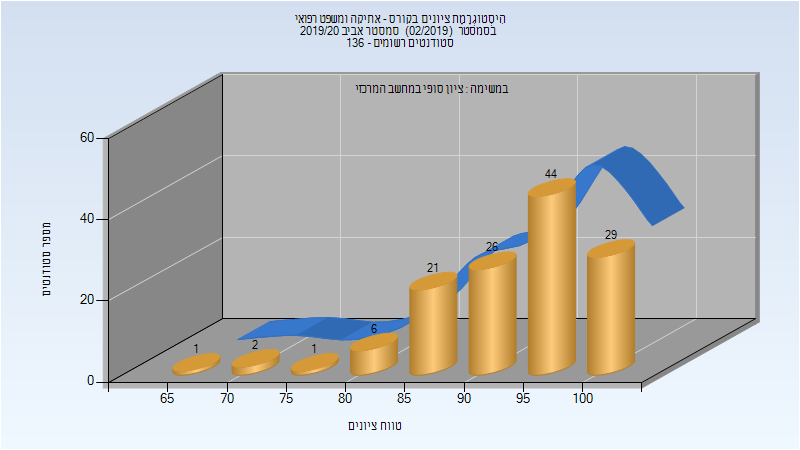
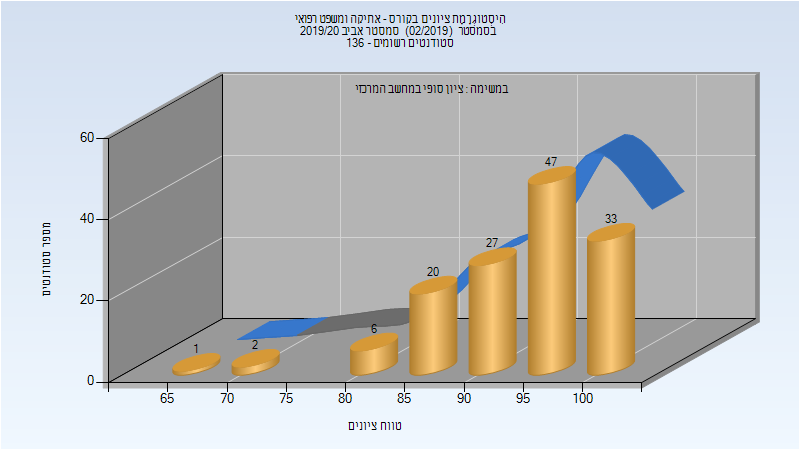
Deploy michael-maltsev/technion-histograms to github.com/michael-maltsev/technion-histograms.git:gh-pages

Changed region(s): [[0.6562, 0.28, 0.875, 0.5911], [0.3438, 0.6844, 0.5312, 0.84], [0.5, 0.4978, 0.6562, 0.6533]]

diff --git a/274366/index.html b/274366/index.html
@@ -149,5 +149,92 @@
 </tr>
 </tbody>
 </table>
+<h2>אביב 2020</h2>
+<table>
+<thead>
+<tr>
+<th>איש סגל</th>
+<th>תפקיד</th>
+</tr>
+</thead>
+<tbody>
+<tr>
+<td>ריסקין אריה</td>
+<td>מרצה - אחראי מקצוע</td>
+</tr>
+<tr>
+<td>רובין אלאד</td>
+<td>סגל מנהלי - עם הרשאות מרצה אחראי</td>
+</tr>
+<tr>
+<td>כהן שרית</td>
+<td>סגל מנהלי - עם הרשאות מרצה אחראי</td>
+</tr>
+<tr>
+<td>שפורן שירי</td>
+<td>סגל מנהלי - עם הרשאות מרצה אחראי</td>
+</tr>
+<tr>
+<td>בוניאל מורן</td>
+<td>סגל מנהלי - עם הרשאות מרצה אחראי</td>
+</tr>
+<tr>
+<td>איינשטיין ליאת</td>
+<td>סגל מנהלי - עם הרשאות מרצה אחראי</td>
+</tr>
+</tbody>
+</table>
+<h3>סופי מועד א'</h3>
+<p><img src="201902/Final_A.png" alt="201902 Final_A" /></p>
+<table>
+<thead>
+<tr>
+<th>סטודנטים</th>
+<th>עברו/נכשלו</th>
+<th>אחוז עוברים</th>
+<th>ציון מינימלי</th>
+<th>ציון מקסימלי</th>
+<th>ממוצע</th>
+<th>חציון</th>
+</tr>
+</thead>
+<tbody>
+<tr>
+<td>100</td>
+<td>100/0</td>
+<td>100</td>
+<td>90</td>
+<td>100</td>
+<td>98.67</td>
+<td>100</td>
+</tr>
+</tbody>
+</table>
+<h3>סופי</h3>
+<p><img src="201902/Finals.png" alt="201902 Finals" /></p>
+<table>
+<thead>
+<tr>
+<th>סטודנטים</th>
+<th>עברו/נכשלו</th>
+<th>אחוז עוברים</th>
+<th>ציון מינימלי</th>
+<th>ציון מקסימלי</th>
+<th>ממוצע</th>
+<th>חציון</th>
+</tr>
+</thead>
+<tbody>
+<tr>
+<td>100</td>
+<td>100/0</td>
+<td>100</td>
+<td>90</td>
+<td>100</td>
+<td>98.67</td>
+<td>100</td>
+</tr>
+</tbody>
+</table>
   </body>
 </html>

diff --git a/274318/index.html b/274318/index.html
@@ -253,6 +253,32 @@
 </tr>
 </tbody>
 </table>
+<h3>סופי מועד ב'</h3>
+<p><img src="201902/Final_B.png" alt="201902 Final_B" /></p>
+<table>
+<thead>
+<tr>
+<th>סטודנטים</th>
+<th>עברו/נכשלו</th>
+<th>אחוז עוברים</th>
+<th>ציון מינימלי</th>
+<th>ציון מקסימלי</th>
+<th>ממוצע</th>
+<th>חציון</th>
+</tr>
+</thead>
+<tbody>
+<tr>
+<td>12</td>
+<td>12/0</td>
+<td>100</td>
+<td>63</td>
+<td>100</td>
+<td>80.667</td>
+<td>81.5</td>
+</tr>
+</tbody>
+</table>
 <h3>סופי</h3>
 <p><img src="201902/Finals.png" alt="201902 Finals" /></p>
 <table>
@@ -269,12 +295,12 @@
 </thead>
 <tbody>
 <tr>
-<td>126</td>
-<td>123/3</td>
-<td>98</td>
+<td>129</td>
+<td>128/1</td>
+<td>99</td>
 <td>30</td>
 <td>100</td>
-<td>82.484</td>
+<td>83.109</td>
 <td>83</td>
 </tr>
 </tbody>

diff --git a/274352/index.html b/274352/index.html
@@ -345,6 +345,10 @@
 <td>מרצה - אחראי מקצוע</td>
 </tr>
 <tr>
+<td>רובין אלאד</td>
+<td>סגל מנהלי - עם הרשאות מרצה אחראי</td>
+</tr>
+<tr>
 <td>שפורן שירי</td>
 <td>סגל מנהלי - עם הרשאות מרצה אחראי</td>
 </tr>
@@ -354,10 +358,6 @@
 </tr>
 <tr>
 <td>בוניאל מורן</td>
-<td>סגל מנהלי - עם הרשאות מרצה אחראי</td>
-</tr>
-<tr>
-<td>הלוי שרה</td>
 <td>סגל מנהלי - עם הרשאות מרצה אחראי</td>
 </tr>
 <tr>
@@ -408,12 +408,12 @@
 </thead>
 <tbody>
 <tr>
-<td>116</td>
-<td>116/0</td>
+<td>118</td>
+<td>118/0</td>
 <td>100</td>
 <td>68</td>
 <td>100</td>
-<td>91.379</td>
+<td>91.475</td>
 <td>92</td>
 </tr>
 </tbody>

diff --git a/274320/index.html b/274320/index.html
@@ -158,15 +158,15 @@
 <td>סגל מנהלי - עם הרשאות מרצה אחראי</td>
 </tr>
 <tr>
+<td>רובין אלאד</td>
+<td>סגל מנהלי - עם הרשאות מרצה אחראי</td>
+</tr>
+<tr>
 <td>כהן שרית</td>
 <td>סגל מנהלי - עם הרשאות מרצה אחראי</td>
 </tr>
 <tr>
 <td>שפורן שירי</td>
-<td>סגל מנהלי - עם הרשאות מרצה אחראי</td>
-</tr>
-<tr>
-<td>הלוי שרה</td>
 <td>סגל מנהלי - עם הרשאות מרצה אחראי</td>
 </tr>
 <tr>
@@ -243,12 +243,12 @@
 </thead>
 <tbody>
 <tr>
-<td>130</td>
-<td>130/0</td>
+<td>136</td>
+<td>136/0</td>
 <td>100</td>
 <td>68</td>
 <td>100</td>
-<td>93.477</td>
+<td>93.882</td>
 <td>96</td>
 </tr>
 </tbody>

diff --git a/274366/README.md b/274366/README.md
@@ -41,3 +41,30 @@
 | ---- | ---- | ---- | ---- | ---- | ---- | ---- |
 | 119 | 119/0 | 100 | 80 | 100 | 97.849 | 100 |
 
+## אביב 2020
+
+| איש סגל | תפקיד |
+| ---- | ---- |
+| ריסקין אריה | מרצה - אחראי מקצוע |
+| רובין אלאד | סגל מנהלי - עם הרשאות מרצה אחראי |
+| כהן שרית | סגל מנהלי - עם הרשאות מרצה אחראי |
+| שפורן שירי | סגל מנהלי - עם הרשאות מרצה אחראי |
+| בוניאל מורן | סגל מנהלי - עם הרשאות מרצה אחראי |
+| איינשטיין ליאת | סגל מנהלי - עם הרשאות מרצה אחראי |
+
+### סופי מועד א'
+
+![201902 Final_A](201902/Final_A.png)
+
+| סטודנטים | עברו/נכשלו | אחוז עוברים | ציון מינימלי | ציון מקסימלי | ממוצע | חציון |
+| ---- | ---- | ---- | ---- | ---- | ---- | ---- |
+| 100 | 100/0 | 100 | 90 | 100 | 98.67 | 100 |
+
+### סופי
+
+![201902 Finals](201902/Finals.png)
+
+| סטודנטים | עברו/נכשלו | אחוז עוברים | ציון מינימלי | ציון מקסימלי | ממוצע | חציון |
+| ---- | ---- | ---- | ---- | ---- | ---- | ---- |
+| 100 | 100/0 | 100 | 90 | 100 | 98.67 | 100 |
+

diff --git a/274352/README.md b/274352/README.md
@@ -102,10 +102,10 @@
 | איש סגל | תפקיד |
 | ---- | ---- |
 | חרמש עירית | מרצה - אחראי מקצוע |
+| רובין אלאד | סגל מנהלי - עם הרשאות מרצה אחראי |
 | שפורן שירי | סגל מנהלי - עם הרשאות מרצה אחראי |
 | כהן שרית | סגל מנהלי - עם הרשאות מרצה אחראי |
 | בוניאל מורן | סגל מנהלי - עם הרשאות מרצה אחראי |
-| הלוי שרה | סגל מנהלי - עם הרשאות מרצה אחראי |
 | איינשטיין ליאת | סגל מנהלי - עם הרשאות מרצה אחראי |
 
 ### סופי מועד א'
@@ -122,5 +122,5 @@
 
 | סטודנטים | עברו/נכשלו | אחוז עוברים | ציון מינימלי | ציון מקסימלי | ממוצע | חציון |
 | ---- | ---- | ---- | ---- | ---- | ---- | ---- |
-| 116 | 116/0 | 100 | 68 | 100 | 91.379 | 92 |
+| 118 | 118/0 | 100 | 68 | 100 | 91.475 | 92 |
 

diff --git a/274320/README.md b/274320/README.md
@@ -44,9 +44,9 @@
 | ---- | ---- |
 | גרונפלד גרשון | מרצה - אחראי מקצוע |
 | בוניאל מורן | סגל מנהלי - עם הרשאות מרצה אחראי |
+| רובין אלאד | סגל מנהלי - עם הרשאות מרצה אחראי |
 | כהן שרית | סגל מנהלי - עם הרשאות מרצה אחראי |
 | שפורן שירי | סגל מנהלי - עם הרשאות מרצה אחראי |
-| הלוי שרה | סגל מנהלי - עם הרשאות מרצה אחראי |
 | איינשטיין ליאת | סגל מנהלי - עם הרשאות מרצה אחראי |
 
 ### מבחן מועד א'
@@ -71,5 +71,5 @@
 
 | סטודנטים | עברו/נכשלו | אחוז עוברים | ציון מינימלי | ציון מקסימלי | ממוצע | חציון |
 | ---- | ---- | ---- | ---- | ---- | ---- | ---- |
-| 130 | 130/0 | 100 | 68 | 100 | 93.477 | 96 |
+| 136 | 136/0 | 100 | 68 | 100 | 93.882 | 96 |
 

diff --git a/274318/README.md b/274318/README.md
@@ -73,11 +73,19 @@
 | ---- | ---- | ---- | ---- | ---- | ---- | ---- |
 | 126 | 123/3 | 98 | 30 | 100 | 82.484 | 83 |
 
+### סופי מועד ב'
+
+![201902 Final_B](201902/Final_B.png)
+
+| סטודנטים | עברו/נכשלו | אחוז עוברים | ציון מינימלי | ציון מקסימלי | ממוצע | חציון |
+| ---- | ---- | ---- | ---- | ---- | ---- | ---- |
+| 12 | 12/0 | 100 | 63 | 100 | 80.667 | 81.5 |
+
 ### סופי
 
 ![201902 Finals](201902/Finals.png)
 
 | סטודנטים | עברו/נכשלו | אחוז עוברים | ציון מינימלי | ציון מקסימלי | ממוצע | חציון |
 | ---- | ---- | ---- | ---- | ---- | ---- | ---- |
-| 126 | 123/3 | 98 | 30 | 100 | 82.484 | 83 |
+| 129 | 128/1 | 99 | 30 | 100 | 83.109 | 83 |
 
